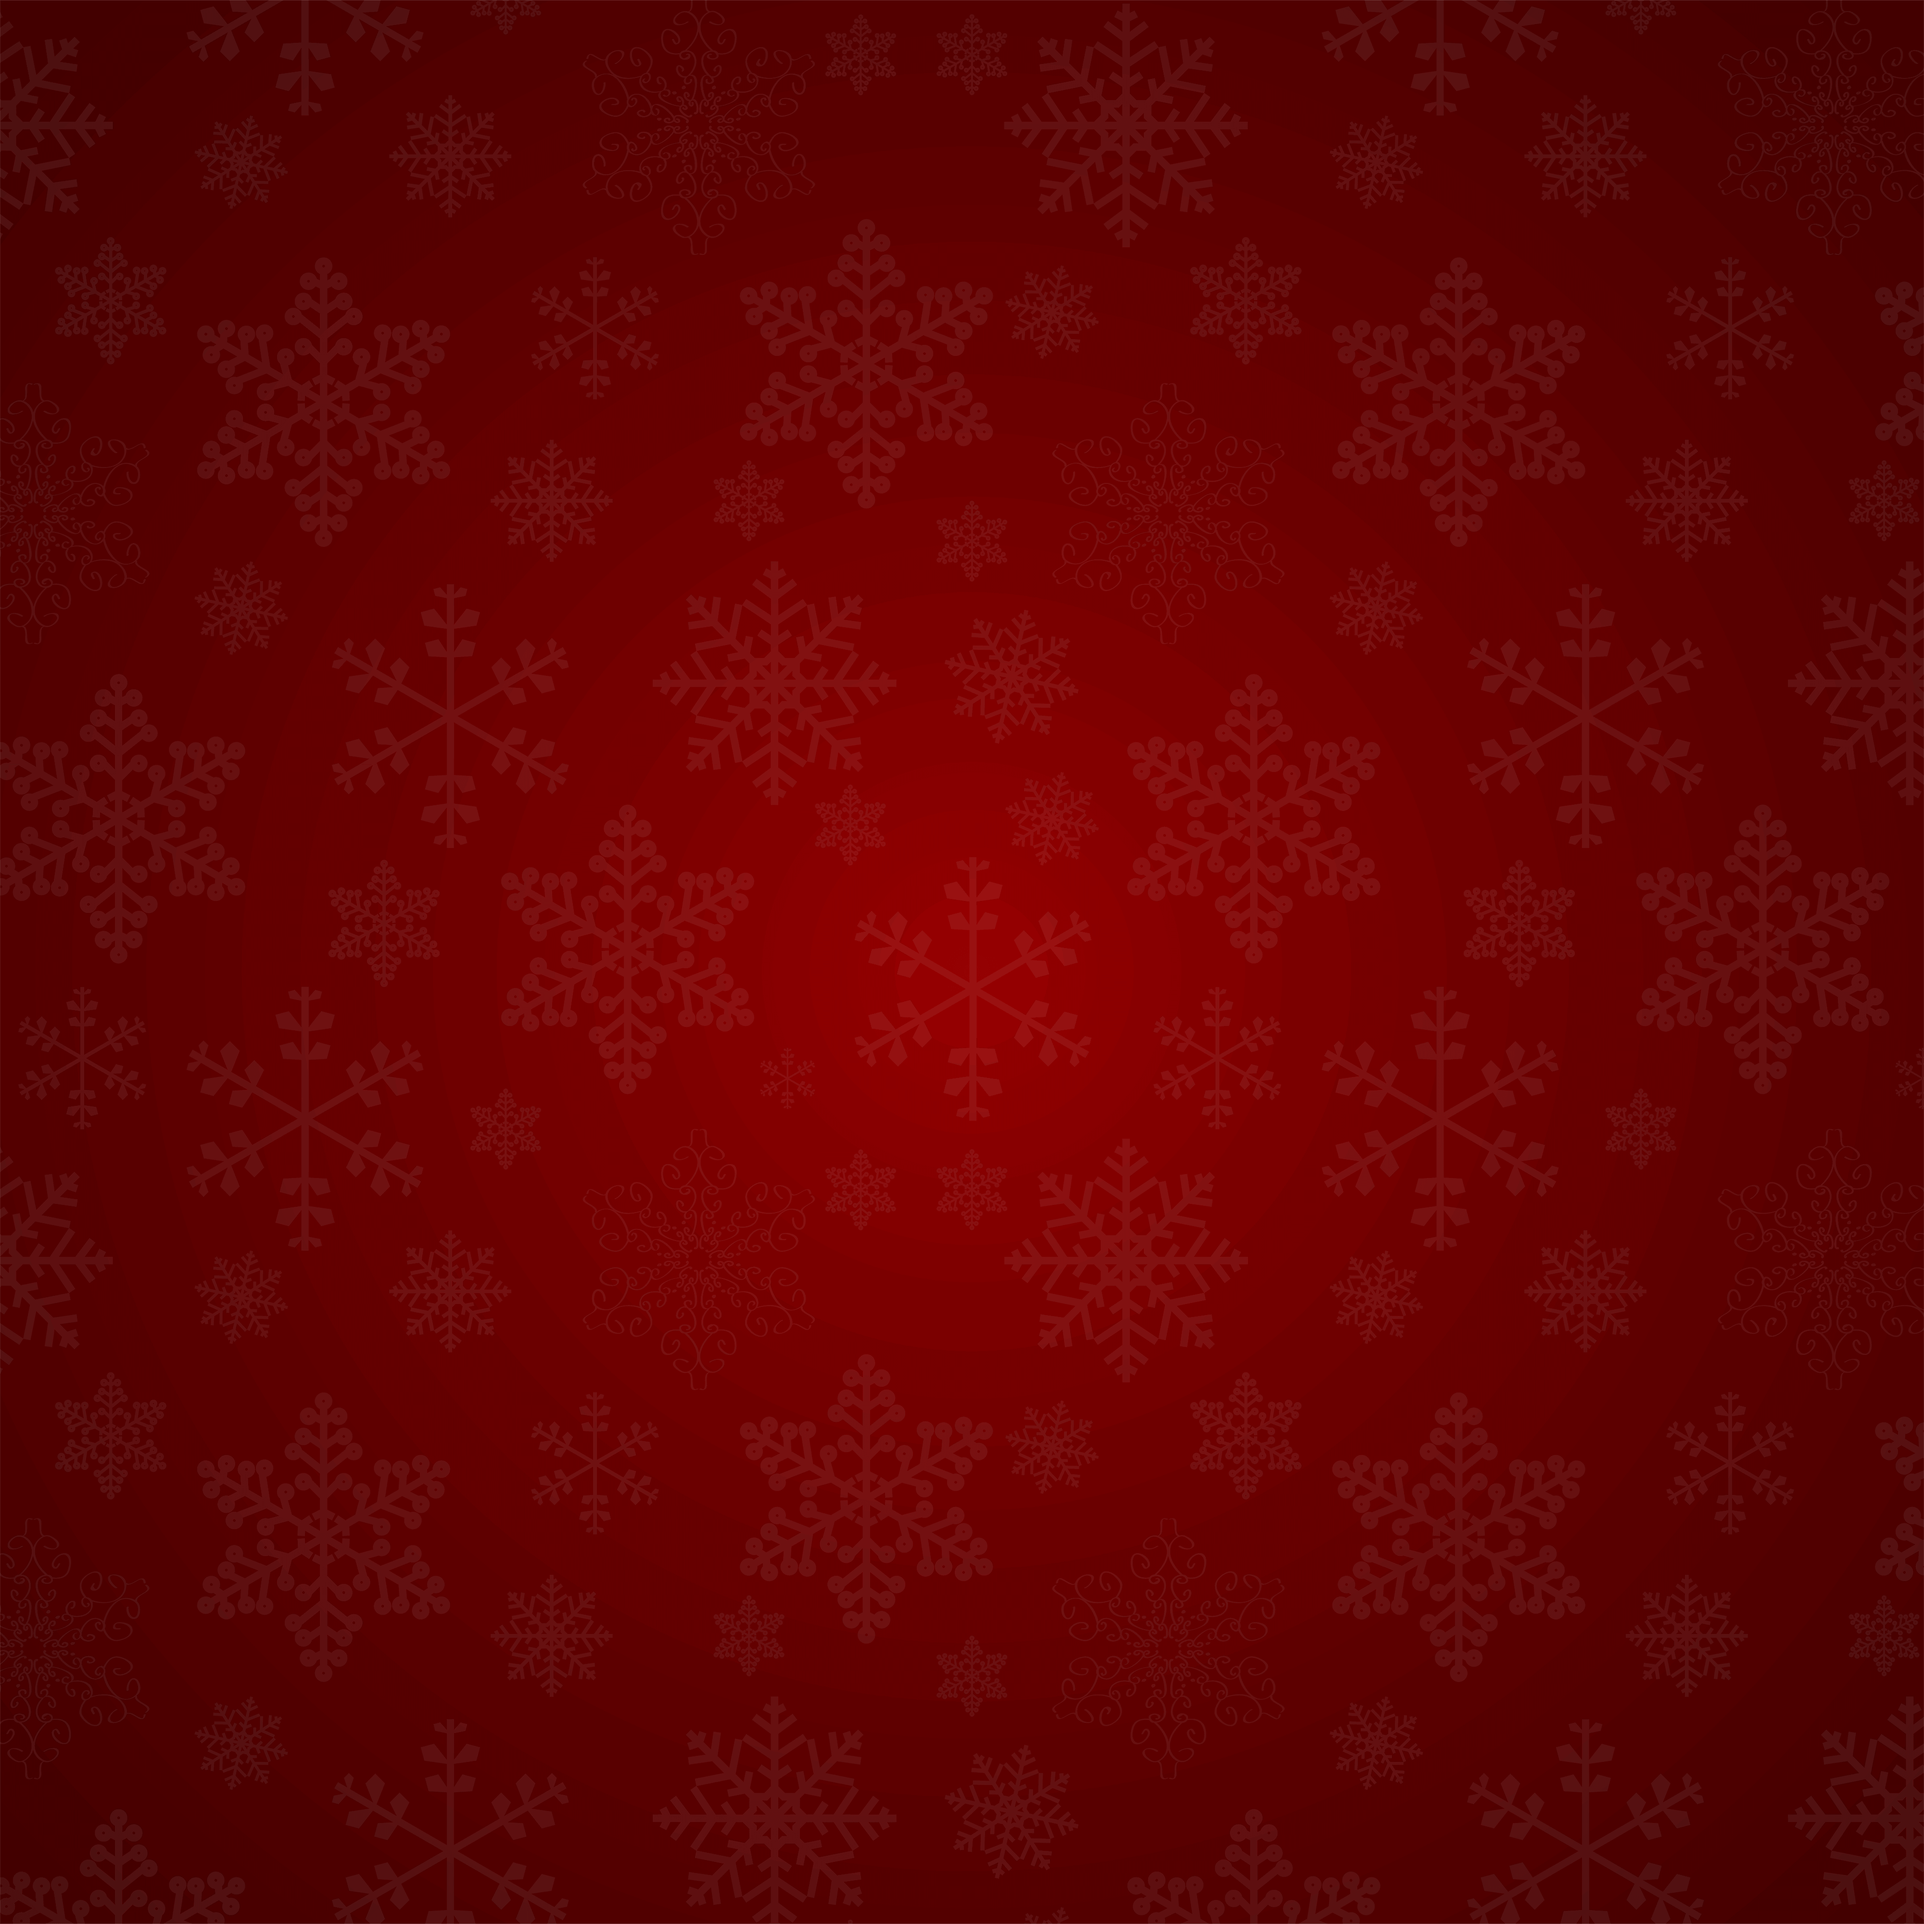
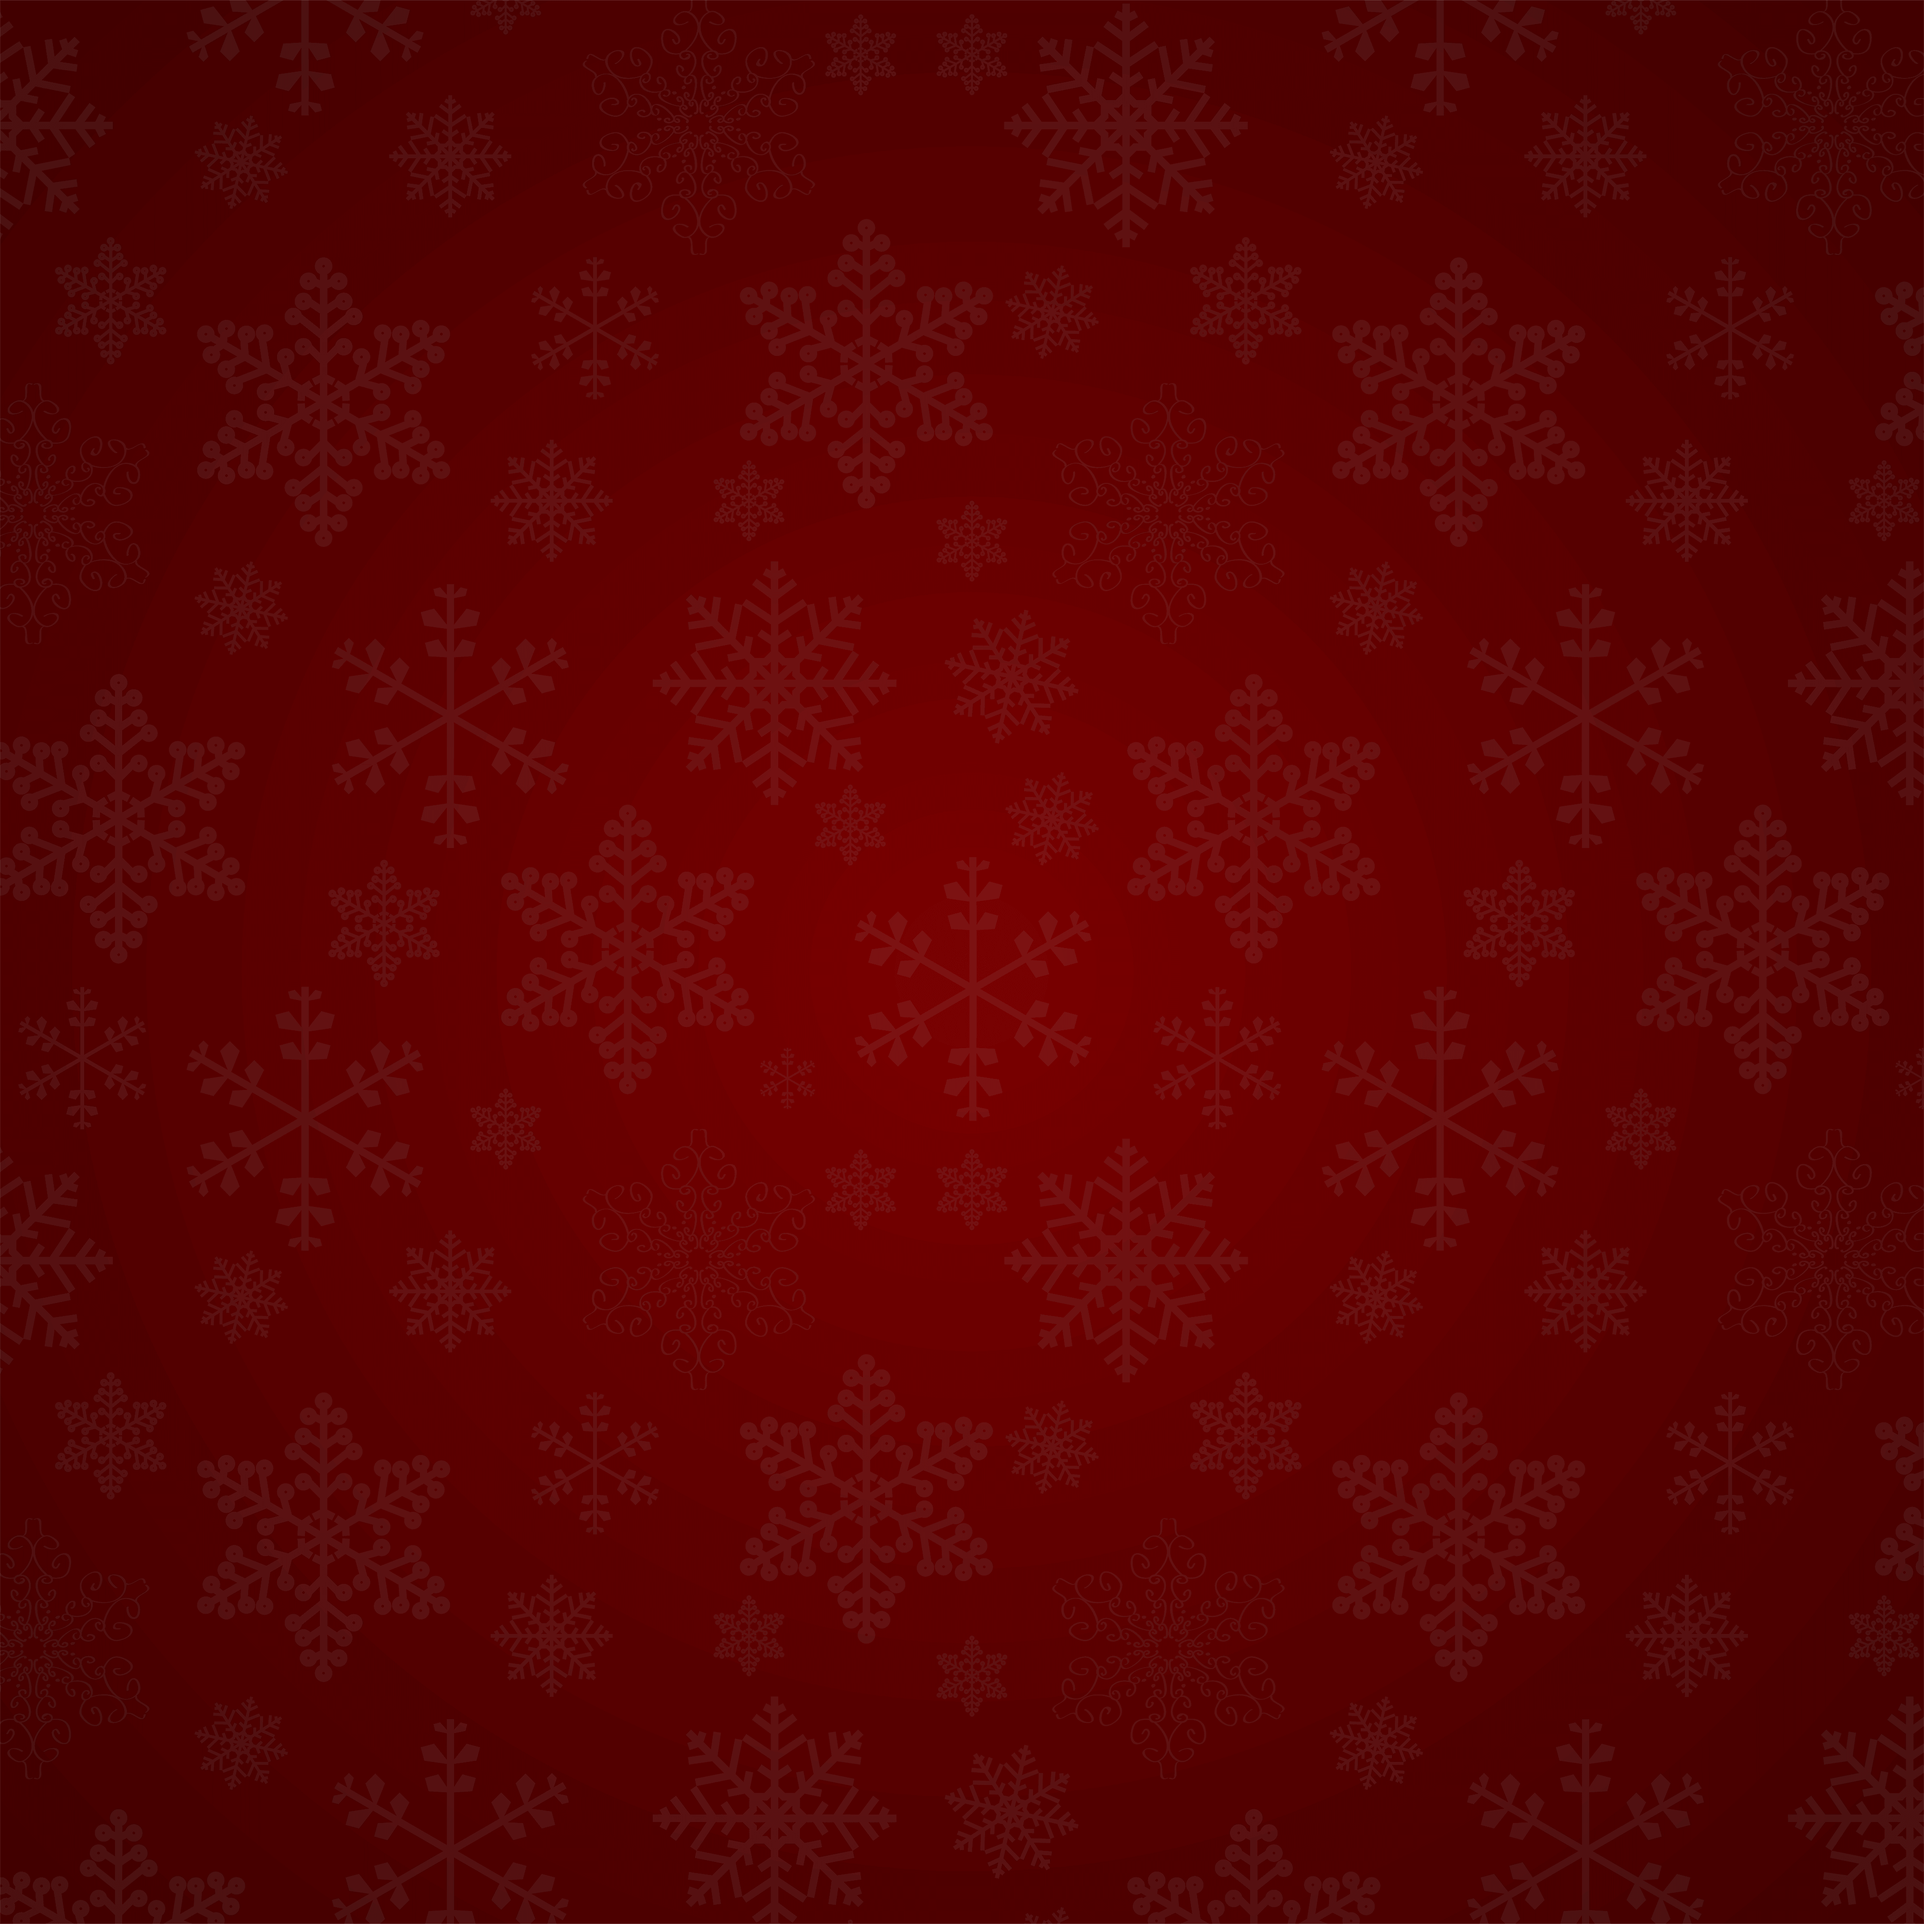
Updated the file again, styled the background

Changed region(s): [[0.4375, 0.4062, 0.5625, 0.5625]]

diff --git a/app/public/wp-content/themes/motownchristmas/style.css b/app/public/wp-content/themes/motownchristmas/style.css
@@ -20,6 +20,8 @@ Tags:
 .site {
     font-family: "Roboto", sans-serif;
     font-weight: 400;
+    background-image: url(./assets/red_background.png);
+    background-position: center;
 }
 
 .container {
